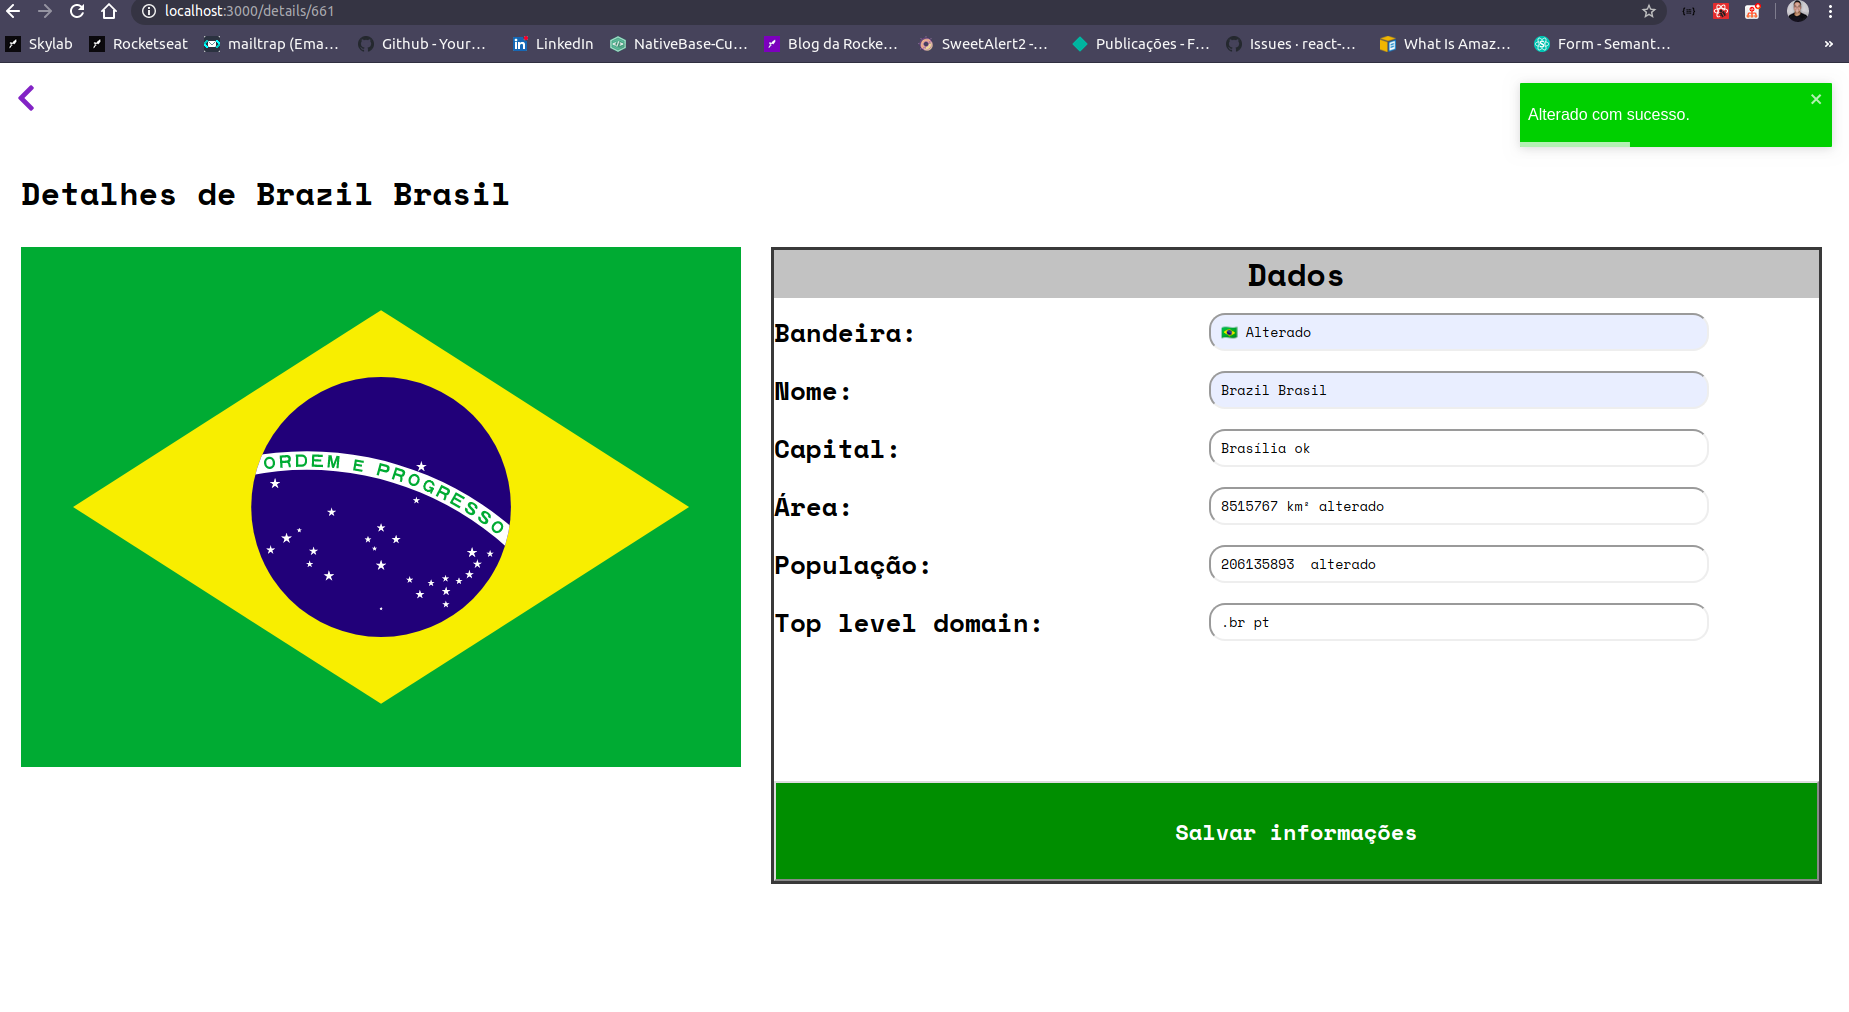
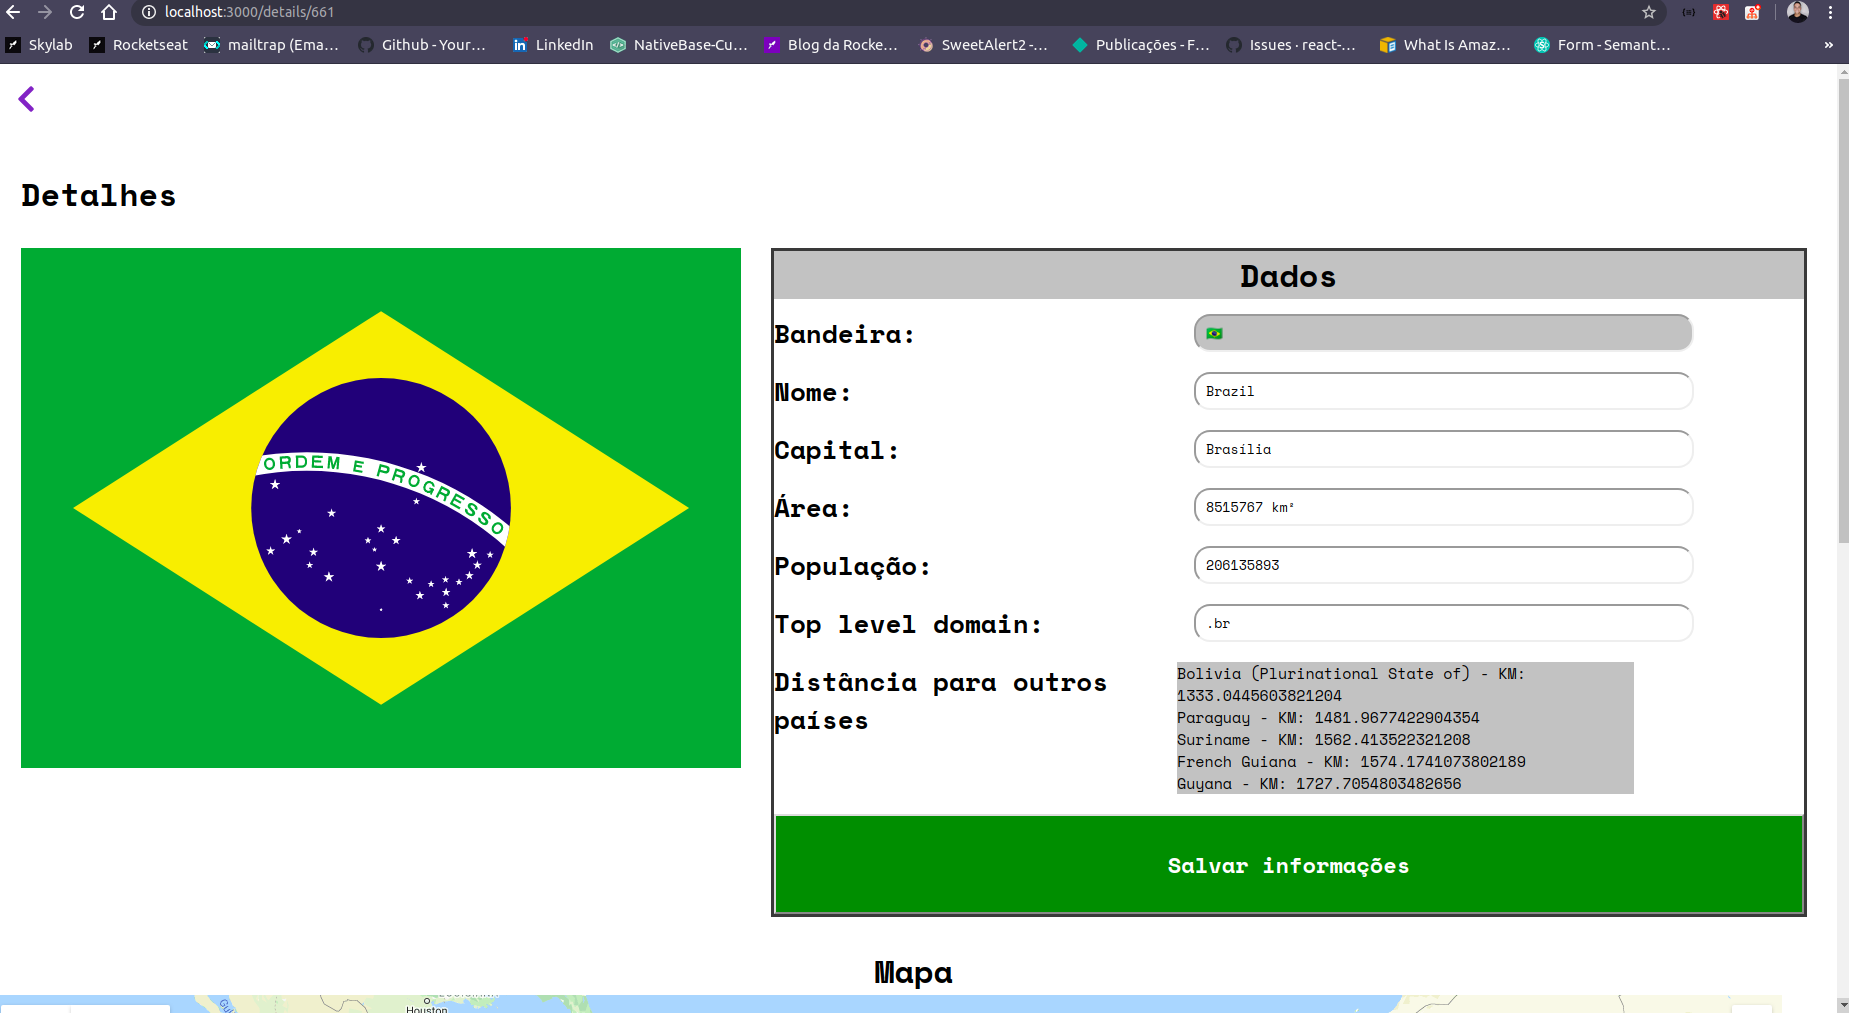
ajuste do mapa

diff --git a/src/pages/Details/index.js b/src/pages/Details/index.js
@@ -7,11 +7,13 @@ import * as CountryActions from '../../store/modules/country/actions';
 import { Container } from './styles';
 import { FaChevronLeft } from 'react-icons/fa';
 
-export default function Details({ match }) {
+import { Map, Marker, GoogleApiWrapper } from 'google-maps-react';
+
+function Details(props) {
   const dispatch = useDispatch();
 
   let filterCountry = useSelector(state => state.country.filter(c => (
-    c._id === match.params.id ? c : null
+    c._id === props.match.params.id ? c : null
   )));
 
   const [country, setCountry] = useState(filterCountry);
@@ -20,14 +22,14 @@ export default function Details({ match }) {
   const handleSave = (e) => {
     e.preventDefault();
 
-    const bandeira = document.getElementById('bandeira').value;
+    //const bandeira = document.getElementById('bandeira').value;
     const nome = document.getElementById('nome').value;
     const capital = document.getElementById('capital').value;
     const area = document.getElementById('area').value;
     const populacao = document.getElementById('populacao').value;
     const topleveldomain = document.getElementById('topleveldomain').value;
 
-    filterCountry[0].flag.emoji = bandeira;
+    //filterCountry[0].flag.emoji = bandeira;
     filterCountry[0].name = nome;
     filterCountry[0].capital = capital;
     filterCountry[0].area = area;
@@ -35,7 +37,7 @@ export default function Details({ match }) {
     filterCountry[0].topLevelDomains[0].name = topleveldomain;
 
     setCountry(filterCountry);
-    //console.tron.warn(country);
+
     dispatch(CountryActions.updateCountryRequest(country));
   }
 
@@ -46,7 +48,7 @@ export default function Details({ match }) {
           <FaChevronLeft size={30} color="#7159c1" style={{ margin: '10px' }} />
         </Link>
       </div>
-      <h1 style={{ margin: 30 }}>Detalhes de {country[0].name}</h1>
+      <h1 style={{ margin: 30 }}>Detalhes</h1>
       <Container>
         {
           country.map(item => (
@@ -56,7 +58,7 @@ export default function Details({ match }) {
                 <h1>Dados</h1>
                 <p>
                   <strong>Bandeira:</strong>
-                  <input id="bandeira" type="text" defaultValue={item.flag ? item.flag.emoji : null} />
+                  <input id="bandeira" type="text" defaultValue={item.flag.emoji} readOnly style={{ background: '#9999' }} />
                 </p>
                 <p>
                   <strong>Nome:</strong>
@@ -82,12 +84,60 @@ export default function Details({ match }) {
                     </p>
                   ))
                 }
+                <p>
+                  <strong>Distância para outros países</strong>
+                  <div>
+                    <div>
+                      {
+                        item.distanceToOtherCountries.map(distance => (
+                          <span>{distance.countryName} - KM: {distance.distanceInKm}</span>
+                        ))
+                      }
+                    </div>
+                  </div>
+                </p>
                 <button type="submit">Salvar informações</button>
               </form>
             </>
           ))
         }
       </Container>
+      <h1 style={{ textAlign: 'center' }}>Mapa</h1>
+      <div style={{ height: '600px' }}>
+        {country[0].location.latitude !== undefined ? (
+          <Map
+            google={props.google} zoom={4}
+            style={{ width: '97%', height: '100%' }}
+            centerAroundCurrentLocation={false}
+            initialCenter={{ lat: country[0].location.latitude, lng: country[0].location.longitude }}
+
+          >
+            <Marker
+              key={country[0]._id}
+              name={country[0].name}
+              position={{ lat: country[0].location.latitude, lng: country[0].location.longitude }}
+              title={country[0].name}
+            />
+
+            {/* {country[0].topLevelDomains.map(topMapa => (
+              <Marker
+                key={topMapa.countries.name}
+                name={topMapa.countries.name}
+                position={{ lat: topMapa.countries.location.latitude, lng: topMapa.countries.location.longitude }}
+                title={topMapa.countries.name}
+              />
+            ))} */}
+          </Map>
+        ) : (
+            <h1>Aguarde</h1>
+          )}
+      </div>
     </>
   );
 }
+
+
+export default GoogleApiWrapper({
+  apiKey: 'AIzaSyAoYxORduKEe4Boi5gW12nS1sB2k_JLv_o',
+  coordinates: true,
+})(Details)

diff --git a/src/components/ListCountry/index.js b/src/components/ListCountry/index.js
@@ -20,7 +20,7 @@ function ListCountry({ result, search }) {
 
   useEffect(() => {
     if (search) {
-      console.log(JSON.stringify(countrys));
+      //console.log(JSON.stringify(countrys));
       setCountry(result.Country.filter(item =>
         (item.name.toLowerCase() === search.toLowerCase())
         || (item.nativeName.toLowerCase() === search.toLowerCase()))
@@ -32,7 +32,7 @@ function ListCountry({ result, search }) {
       setCountry(result.Country)
 
     }
-  }, [search, result.Country, countrys]);
+  }, [search, result.Country]);
 
   const renderCountry = () => (
     <Container>
@@ -78,12 +78,16 @@ const countryQuery = gql`
         emoji
       } 
       topLevelDomains {
-        name
+        name       
       }  
       distanceToOtherCountries(first: 5) {
         distanceInKm
-        countryName      
-      } 
+        countryName          
+      }   
+      location {
+        latitude
+        longitude
+      }    
     }   
   }
 `;

diff --git a/src/pages/Details/styles.js b/src/pages/Details/styles.js
@@ -18,6 +18,7 @@ export const Container = styled.div`
     
     border: 3px solid #393939;
     width: 100%;
+    height: 0 auto;
 
     h1 {
       text-align: center;
@@ -48,13 +49,27 @@ export const Container = styled.div`
       }
     }
 
+    div {
+      div {
+        display: flex;
+        flex-direction: column;
+        background: #9999;
+        margin-right: 170px;
+        width: 0 auto;
+
+        span {
+          font-size: 15px;
+        }
+      }
+    }
+
     button {
       background: green;
       color: #FFF;
       font-size: 22px;
       font-weight: bold;
       height: 100px;
-      margin-top: 120px;
+      margin-top: 0 auto;
     }
   }
 `;

diff --git a/src/App.js b/src/App.js
@@ -18,17 +18,17 @@ import apolloClient from './services/apollo';
 
 function App() {
   return (
-    <Provider store={store}>
-      <PersistGate loading={null} persistor={persistor}>
+    <PersistGate loading={null} persistor={persistor}>
+      <Provider store={store}>
         <ApolloProvider client={apolloClient}>
           <Router history={history}>
             <GlobalStyle />
             <Routes />
-            <ToastContainer autoClose={10000} />
+            <ToastContainer autoClose={3000} />
           </Router>
         </ApolloProvider>
-      </PersistGate>
-    </Provider>
+      </Provider>
+    </PersistGate>
   );
 }
 

diff --git a/README.md b/README.md
@@ -4,15 +4,10 @@
    <img src="src/assets/foto.png" />
 </p>
 <p align="center">
-   <img src="src/assets/foto1.png" />
-</p>
-<p align="center">
    <img src="src/assets/foto2.png" />
 </p>
-
-<h1>Bônus</h1>
 <p align="center">
-   <img src="src/assets/test.png" />
+   <img src="src/assets/foto1.png" />
 </p>
 
 Deploy:
